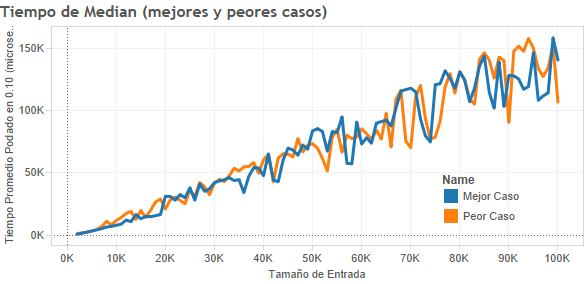
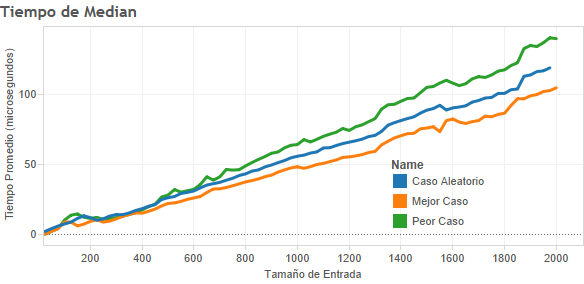
Updates from Overleaf

diff --git a/docs/main.tex b/docs/main.tex
@@ -205,12 +205,8 @@ Por ambas demostraciones, probamos que el algoritmo genera un camino válido en 
 
 \subsection{Complejidad}
 Como el algoritmo descripto es el único utilizado en la resolución del problema, y como pueden apreciarse las complejidades de las operaciones en el pseudocódigo, lo único que queda por analizar son los ciclos que contiene. \\
-Se puede ver que el algoritmo contiene un ciclo principal, el cual siempre realizará tamaño$(distancia)$ iteraciones. Luego, dentro de este ciclo hay otro ciclo y un condicional, el cuál ignoraremos porque que toma tiempo constante. Finalmente veremos cuál es la complejidad del ciclo secundario, y concluiremos que en peor caso, la complejidad del ciclo principal es $O(\text{tamaño}(distancia))$. \\ 
-Primero tomemos el caso en que, en cada iteración se cumple la guarda del ciclo .
-Como podemos ver, el ciclo chequea que:
-\begin{enumerate}
-\item Es posible cubrir la sub-secuencia actual de ciudades con el cable dado, puesto que éste es más largo.
-\end{enumerate}
+Se puede ver que el algoritmo contiene un ciclo principal, el cual siempre realizará tamaño$(distancia)$ iteraciones. Luego, dentro de este ciclo hay otro ciclo y un condicional, el cuál ignoraremos porque toma tiempo constante. Finalmente veremos cuál es la complejidad del ciclo secundario, y concluiremos que en peor caso, la complejidad del ciclo principal es $O(\text{tamaño}(distancia))$. \\ 
+Primero tomemos el caso en que, en cada iteración se cumple la guarda del ciclo; como podemos ver, el ciclo chequea que es posible cubrir la sub-secuencia actual de ciudades con el cable dado, puesto que éste es más largo.
 
 Veamos que si la condición del ciclo se cumple en cada iteración del ciclo principal, eso significa que la cantidad de metros de cable es menor a toda distancia entre cualquier par de ciudades, y más aún, esto también vale para todo par de ciudades adyacentes. Con lo cual, en cada iteración del ciclo principal, el ciclo secundario se ejecutará una sola vez, y luego se romperá su guarda. Esto es porque cada vez que se aumenta $end$, se cumple la guarda del ciclo secundario, con lo cuál aumenta $start$, luego $start$ y $end$ valen lo mismo, y por eso se rompe la guarda. Habiendo dicho esto, podemos ver que: dado que el ciclo secundario se ejecuta una sola vez, y que cada ejecución del mismo cuesta $O(1)$, el ciclo mismo cuesta $O(1)$; con lo cual el ciclo principal cuesta $O(\text{tamaño}(distancia))$.
 
@@ -265,7 +261,7 @@ Ahora veamos las medidas de tiempo para los casos aleatorios:
 \label{exp1plot}
 \end{figure}
 
-Los resultados de este caso, aunque se nota que la complejidad es lineal, en un principio nos sorprendieron y asustaron por la distribución y diferencia de complejidades tan amplia, pero luego de un análisis mas profundo del código, y como ya cursamos Organización del computador 2 llegamos a la siguiente conclusión: En los casos de test para el peor y mejor caso, los metros de cable tenían que encontrarse dentro de cierto rango controlable para asegurar las condiciones para que justamente concuerden con el peor y mejor caso propuesto. Pero en el caso aleatorio se elige una longitud de cable al azar entre 1 y la distancia de la ciudad mas lejana, entonces se tiene un rango muy grande de posibles valores, por lo que es posible que en un caso se elija una longitud corta, y en la siguiente una muy larga. Esto hará una diferencia muy grande a la hora de realizar las comparaciones, esto se vería explícitamente reflejado en un análisis de complejidad logarítmico, o eso es lo que sospechamos. Hay que tener en cuenta que dentro de las operaciones básicas que se realizan dentro del ciclo principal se encuentran:
+Los resultados de este caso, aunque se nota que la complejidad es lineal, en un principio nos sorprendieron y asustaron por la distribución y diferencia de complejidades tan amplia, pero luego de un análisis mas profundo del código, y como ya cursamos Organización del Computador 2 llegamos a la siguiente conclusión: En los casos de test para el peor y mejor caso, los metros de cable tenían que encontrarse dentro de cierto rango controlable para asegurar las condiciones para que justamente concuerden con el peor y mejor caso propuesto. Pero en el caso aleatorio se elige una longitud de cable al azar entre 1 y la distancia de la ciudad mas lejana, entonces se tiene un rango muy grande de posibles valores, por lo que es posible que en un caso se elija una longitud corta, y en la siguiente una muy larga. Esto hará una diferencia muy grande a la hora de realizar las comparaciones, esto se vería explícitamente reflejado en un análisis de complejidad logarítmico, o eso es lo que sospechamos. Hay que tener en cuenta que dentro de las operaciones básicas que se realizan dentro del ciclo principal se encuentran:
 Para el ciclo secundario: una resta y una comparación, y luego si se cumple, una asignación.
 Para el bloque condicional: dos restas, y una comparación, y si se cumple, dos asignaciones.
 Por lo tanto las restas y comparaciones son las que siempre, en todas las iteraciones, se van a realizar, y estas ultimas van a ser muy costosas cuando los valores sean muy grandes en si.
@@ -491,20 +487,11 @@ Finalmente, consideramos casos construidos de forma aleatoria, donde el procedim
 
 \begin{figure}[h!]
 \centering
-\label{grf:ex2-best-worst}
 \includegraphics[width=15cm]{images/ex2-best-worst}
-\caption{Tiempos de mejor y peor caso para el ejercicio 2. El tamaño de entrada es la longitud de la lista.}
+\caption{Tiempos para el ejercicio 2. El estadístico utilizado es la media alfa podada, con $\alpha = 0.10$. El tamaño de entrada es la longitud de la lista. \label{grf:ex2-best-worst}}
 \end{figure}
 
-\begin{figure}[h!]
-\centering
-\label{grf:ex2-random}
-\includegraphics[width=15cm]{images/ex2-random}
-\caption{Tiempos tomados por instancias generadas aleatoriamente para el ejercicio 2. El tamaño es la longitud de la lista.}
-\end{figure}
-
-Observemos que la figura \ref{grf:ex2-best-worst} no muestra grandes diferencias, como esperábamos, sino que más bien es relativamente ininteligible.
-Realmente no pudimos llegar a concluir en una causa real por la que suceda esto.
+Observemos que la figura \ref{grf:ex2-best-worst} muestra una diferencia clara entre los tres casos de test, si bien la diferencia no es realmente importante se puede ver que acertamos en cuales serian los casos adecuados. Sospechamos que aumentar la cantidad de elementos nos permitiría encontrar una mayor diferencia. Nos llamó particularmente la atención que el caso aleatorio haya quedado tan bien acotado por los otros dos, sospechamos que es posible que tengamos algún tipo de error en el generador de casos de test aleatorios, ya que no podemos explicar de otra forma el fenómeno. De cualquier forma, en términos generales los resultados son efectivamente los esperados.
 
 \pagebreak
 
@@ -572,7 +559,7 @@ $$(i_1, .., i_n, n+1) \equiv (n+1, i_1, .., i_n)$$
 Con $i_j$ un ordenamiento arbitrario de los números en $M_n$. Además, $i_1 < n+1$ por lo que la primer alternativa es estrictamente menor lexicográficamente que la segunda, implicando que como solución es mejor (por los parámetros determinados por la cátedra, dado que la suma de distancias entre los pares de amistades se va a preservar) y, por lo tanto, la primer alternativa siempre debería ser elegida antes que la segunda.
 \end{proof}
 
-Entonces, podemos explorar el espacio de soluciones en forma de árbol, donde la cabeza es la permutación con un solo elemento, y cada nivel está definido en términos del anterior como aplicar la función $g$ del lema \ref{ej3:generador} a todos los nodos del nivel anterior, utilizando cada uno de los $n-1$ valores más grandes de $M_n$. Observemos, además, que podemos explorar el árbol de forma tal que las permutaciones de menor orden lexicográfico sean exploradas antes, simplemente eligiendo los índices para la inserción de mayor a menor.
+Entonces, podemos explorar el espacio de soluciones en forma de árbol, donde la cabeza es la permutación con un solo elemento, y cada nivel está definido en términos del anterior como aplicar la función $g$ del primer lema a todos los nodos del nivel anterior, utilizando cada uno de los $n-1$ valores más grandes de $M_n$. Observemos, además, que podemos explorar el árbol de forma tal que las permutaciones de menor orden lexicográfico sean exploradas antes, simplemente eligiendo los índices para la inserción de mayor a menor.
 
 \begin{figure}[h!]
 \centering
@@ -723,27 +710,25 @@ El mejor caso del algoritmo es cuando obtenemos la suma óptima lo antes posible
 
 En términos del peor caso, es claro que el mismo será cuando la poda sea mínima, es decir, cuando jamás logremos podar nodos. Observemos que esto se corresponde con que las rondas que vayan avanzando lexicográficamente vayan al mismo tiempo bajando el costo, por lo que es difícil poder construir explícitamente un peor caso. Sin embargo, podemos aproximarnos si consideramos no podar el árbol: borrar las podas se correspondería con un caso lo suficientemente malo como para que las mismas sean inaplicables. Si bien esto difícilmente suceda en un caso real, ya que al tener aunque sea un caso muy posiblemente logremos borrar algunas ramas, pensamos que es una buena forma de cuantificar cuánto estamos ganando con las podas.
 
+Dado que no logramos encontrar un algoritmo que genere un mejor caso para nuestro algoritmo, mostraremos la comparación entre el algoritmo sin podas, contra el algoritmo con podas. Esto nos permitirá cuantificar cuanto estamos ganando con las mismas.
+
+\begin{figure}[h!]
+\centering
+\includegraphics[width=15cm]{images/ex3-best-worst}
+\caption{El estadístico que tomamos es la media alfa podada con $\alpha = 0.10$, que nos permite evitar algunos outliers. \label{grf:ex3-best-worst}}
+\end{figure}
+
 Finalmente, consideramos casos construidos de forma aleatoria, donde el procedimiento consiste en dada una cantidad de exploradoras $e$ y una cantidad de amistades $a \in \{1, .., \frac{e(e-1)}{2}\}$, generamos el producto cartesiano entre las exploradoras, filtramos los vértices inadmisibles (la relación diagonal y los simétricos), y tomamos una muestra de $a$ elementos uniformemente distribuidos entre los mismos.
 
-Dado que no logramos encontrar un algoritmo que genere un mejor caso para nuestro algoritmo, mostraremos la comparación entre el algoritmo sin podas, contra el algoritmo con podas. Esto nos permitirá cuantificar, de alguna forma, cuanto estamos ganando con las mismas (a pesar de que no va a ser muy .
-
 \begin{figure}[h!]
 \centering
-\label{grf:ex3-best-worst}
-\includegraphics[width=15cm]{images/ex3-best-worst}
-\caption{}
-\end{figure}
-
-\begin{figure}[h!]
-\centering
-\label{grf:ex3-random}
 \includegraphics[width=15cm]{images/ex3-random}
-\caption{El estadístico que tomamos es la media alfa podada con $\alpha = 0.10$, que nos permite evitar algunos outliers. La línea gris corresponde a un polinomio de grado 2 buscado a través de cuadrados mínimos.}
+\caption{El estadístico que tomamos es la media alfa podada con $\alpha = 0.10$, que nos permite evitar algunos outliers. La línea gris corresponde a un polinomio de grado 2 buscado a través de cuadrados mínimos. \label{grf:ex3-random}}
 \end{figure}
 
-Observemos que la figura \ref{grf:ex3-random} nos muestra que el variar la cantidad de amistades provoca un crecimiento cuadrático, mientras que variar la cantidad de exploradoras muestra el crecimiento esperado.
+Observemos que la figura \ref{grf:ex3-random} nos muestra que el variar la cantidad de amistades provoca un crecimiento cuadrático, mientras que variar la cantidad de exploradoras muestra el crecimiento esperado. Por otro lado, comparar el mejor y peor caso en la figura \ref{grf:ex3-best-worst} nos da un resultado ligeramente ambiguo: estábamos esperando una mayor ganancia al utilizar podas. De cualquier forma, queda claro que el uso de podas mejora la complejidad temporal, y en ese sentido los resultados apoyan la intuición.
 
-Por otro lado, comparar el mejor y 
+Sospechamos, sin embargo, que las situaciones que testeamos no son las mejores para ver la diferencia entre los dos algoritmos, en el sentido que probablemente el beneficio de utilizar podas se vea más claramente en instancias con una mayor cantidad de exploradoras, donde el árbol a explorar sería notoriamente más grande y tengamos una mayor oportunidad de cortar ramas.
 
 \pagebreak
 
